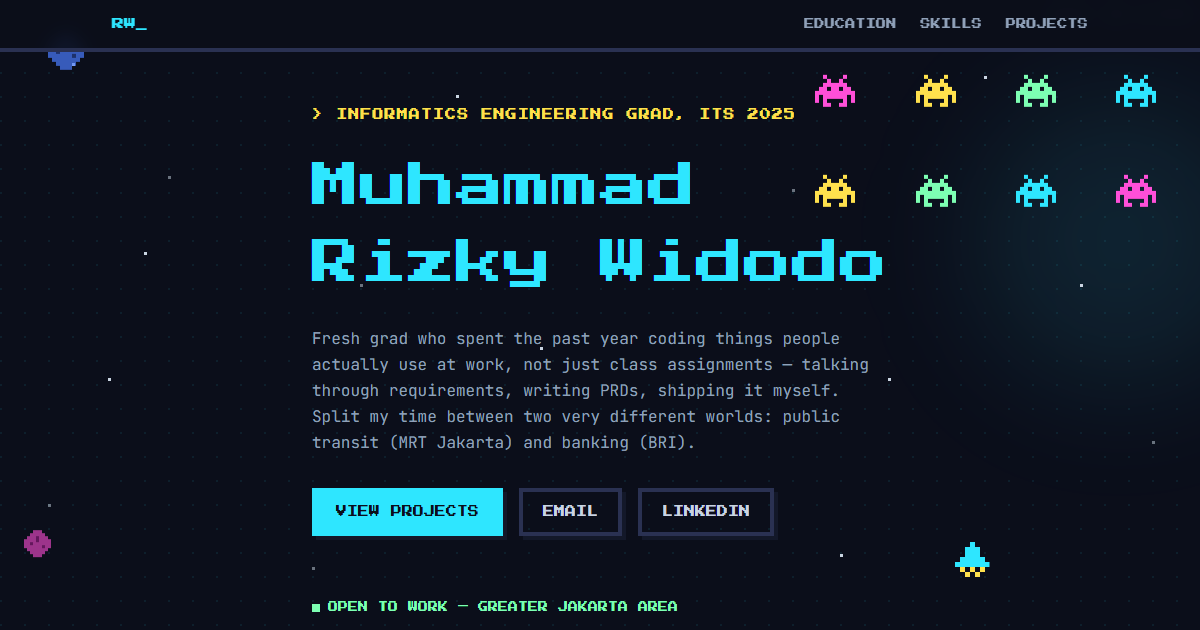
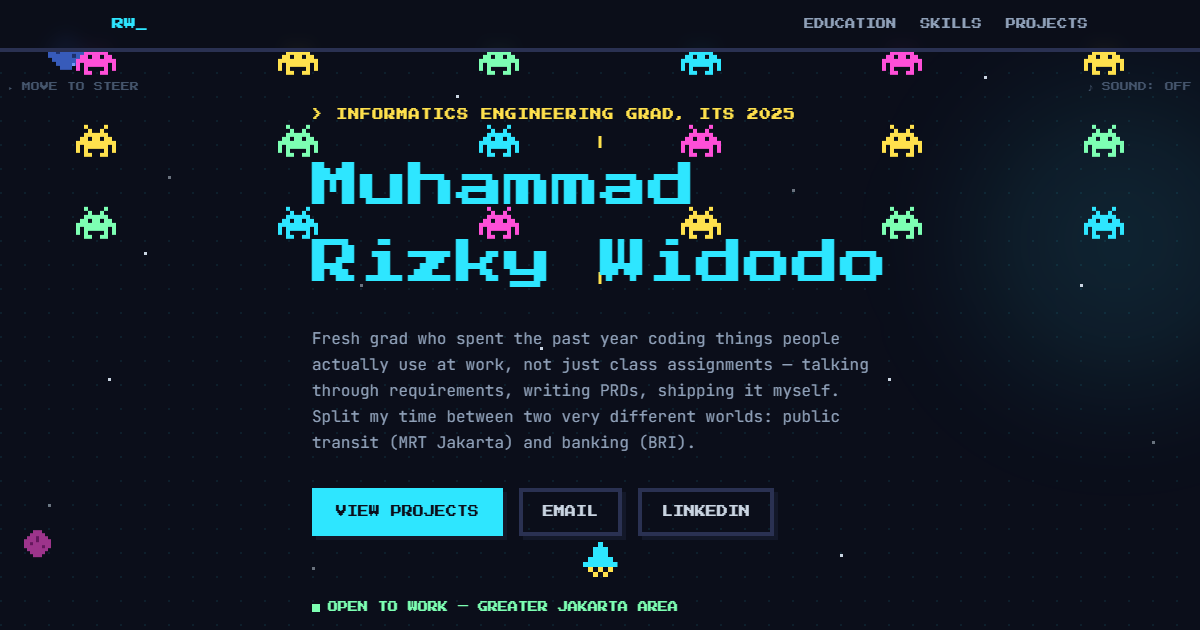
Full-screen invaders, auto-fire, pixel explosions, synthesized sound
Battlefield now spans the whole Hero instead of a 38% side column, the
ship auto-fires so pointer movement is steering-only, hit aliens burst
into fading particles instead of vanishing, and shots/explosions have
retro 8-bit sound (Web Audio oscillator + filtered noise, opt-in via a
mute toggle — nothing plays until the user turns it on).

Also fixes a hit-testing regression from going full-width: the Hero
text block needed an explicit z-10 to reliably paint above the
battlefield, since same-level (z-index:auto) stacking order wasn't
resolving the way DOM order alone would suggest.

diff --git a/src/components/SpaceInvaders.tsx b/src/components/SpaceInvaders.tsx
@@ -1,23 +1,27 @@
 import { useEffect, useRef, useState } from 'react'
 import PixelSprite from './PixelSprite'
 import { ALIEN_PATTERN, SHIP_COLORS, SHIP_PATTERN } from './pixelSprites'
+import { playExplosion, playShoot, unlockAudio } from '../lib/sound'
 
 type Alien = { id: string; x: number; y: number; color: string; alive: boolean }
 type Bullet = { id: string; x: number; y: number }
+type Explosion = { id: string; x: number; y: number; color: string }
 
 const ALIEN_COLORS = ['#ff4fd8', '#ffe14d', '#7dffb3', '#2ee6ff']
-const BULLET_SPEED = 2.2 // percent of battlefield height per frame
-const HIT_RADIUS = 7 // percent
+const BULLET_SPEED = 2.4 // percent of battlefield height per frame
+const HIT_RADIUS = 6 // percent
+const FIRE_INTERVAL_MS = 450
+const PARTICLE_ANGLES = [0, 60, 120, 180, 240, 300]
 
 function makeWave(): Alien[] {
   const aliens: Alien[] = []
   let id = 0
-  for (let row = 0; row < 2; row++) {
-    for (let col = 0; col < 4; col++) {
+  for (let row = 0; row < 3; row++) {
+    for (let col = 0; col < 6; col++) {
       aliens.push({
         id: `a${id++}`,
-        x: 20 + col * 22,
-        y: 15 + row * 16,
+        x: 8 + col * 16.8,
+        y: 10 + row * 13,
         color: ALIEN_COLORS[(row + col) % ALIEN_COLORS.length],
         alive: true,
       })
@@ -34,15 +38,22 @@ function SpaceInvaders() {
   const [shipX, setShipX] = useState(50)
   const [aliens, setAliens] = useState<Alien[]>(() => makeWave())
   const [bullets, setBullets] = useState<Bullet[]>([])
+  const [explosions, setExplosions] = useState<Explosion[]>([])
+  const [soundOn, setSoundOn] = useState(false)
 
   const aliensRef = useRef(aliens)
   const bulletsRef = useRef(bullets)
+  const shipXRef = useRef(shipX)
+  const soundOnRef = useRef(soundOn)
   useEffect(() => {
     aliensRef.current = aliens
   }, [aliens])
   useEffect(() => {
     bulletsRef.current = bullets
   }, [bullets])
+  useEffect(() => {
+    soundOnRef.current = soundOn
+  }, [soundOn])
 
   // Single rAF loop: moves bullets up and checks alien collisions each
   // frame. Reads current state via refs (not the closed-over `aliens`/
@@ -55,7 +66,7 @@ function SpaceInvaders() {
       const currentAliens = aliensRef.current
 
       if (currentBullets.length > 0) {
-        const hitIds = new Set<string>()
+        const hits: Alien[] = []
         const nextBullets: Bullet[] = []
 
         for (const bullet of currentBullets) {
@@ -65,24 +76,35 @@ function SpaceInvaders() {
           const hit = currentAliens.find(
             (a) =>
               a.alive &&
-              !hitIds.has(a.id) &&
+              !hits.includes(a) &&
               Math.abs(a.x - bullet.x) < HIT_RADIUS &&
               Math.abs(a.y - y) < HIT_RADIUS,
           )
           if (hit) {
-            hitIds.add(hit.id)
+            hits.push(hit)
             continue
           }
           nextBullets.push({ ...bullet, y })
         }
 
         setBullets(nextBullets)
-        if (hitIds.size > 0) {
+        if (hits.length > 0) {
+          const hitIds = new Set(hits.map((a) => a.id))
           setAliens(
             currentAliens.map((a) =>
               hitIds.has(a.id) ? { ...a, alive: false } : a,
             ),
           )
+          setExplosions((prev) => [
+            ...prev,
+            ...hits.map((a) => ({
+              id: `e${a.id}-${Date.now()}`,
+              x: a.x,
+              y: a.y,
+              color: a.color,
+            })),
+          ])
+          if (soundOnRef.current) playExplosion()
         }
       }
 
@@ -101,34 +123,48 @@ function SpaceInvaders() {
     }
   }, [aliens])
 
-  const shipXFromPointer = (clientX: number) => {
-    const rect = battlefieldRef.current?.getBoundingClientRect()
-    if (!rect) return shipX
-    return clamp(((clientX - rect.left) / rect.width) * 100, 5, 95)
-  }
+  // Auto-fire from the ship's current x, no click required.
+  useEffect(() => {
+    const interval = setInterval(() => {
+      setBullets((prev) => [
+        ...prev,
+        { id: `b${Date.now()}-${Math.random()}`, x: shipXRef.current, y: 84 },
+      ])
+      if (soundOnRef.current) playShoot()
+    }, FIRE_INTERVAL_MS)
+    return () => clearInterval(interval)
+  }, [])
 
   const handlePointerMove = (e: React.PointerEvent) => {
-    setShipX(shipXFromPointer(e.clientX))
+    const rect = battlefieldRef.current?.getBoundingClientRect()
+    if (!rect) return
+    const pct = clamp(((e.clientX - rect.left) / rect.width) * 100, 3, 97)
+    shipXRef.current = pct
+    setShipX(pct)
   }
 
-  const handlePointerDown = (e: React.PointerEvent) => {
-    const x = shipXFromPointer(e.clientX)
-    setShipX(x)
-    setBullets((prev) => [
-      ...prev,
-      { id: `b${Date.now()}-${Math.random()}`, x, y: 84 },
-    ])
+  const toggleSound = () => {
+    setSoundOn((prev) => {
+      if (!prev) unlockAudio()
+      return !prev
+    })
   }
 
   return (
     <div
       ref={battlefieldRef}
       onPointerMove={handlePointerMove}
-      onPointerDown={handlePointerDown}
-      className="pointer-events-auto absolute inset-y-0 right-0 w-[38%] touch-none select-none"
+      className="pointer-events-auto absolute inset-0 touch-none select-none"
     >
-      <p className="font-pixel absolute top-2 right-2 text-[9px] text-slate-600">
-        ▸ SHOOT THE ALIENS
+      <button
+        type="button"
+        onClick={toggleSound}
+        className="pointer-events-auto font-pixel absolute top-20 right-2 text-[9px] text-slate-600 transition-colors hover:text-cyan"
+      >
+        ♪ SOUND: {soundOn ? 'ON' : 'OFF'}
+      </button>
+      <p className="font-pixel absolute top-20 left-2 text-[9px] text-slate-600">
+        ▸ MOVE TO STEER
       </p>
 
       {aliens.map(
@@ -144,6 +180,37 @@ function SpaceInvaders() {
             />
           ),
       )}
+
+      {explosions.map((ex) => (
+        <div
+          key={ex.id}
+          className="absolute -translate-x-1/2 -translate-y-1/2"
+          style={{ left: `${ex.x}%`, top: `${ex.y}%` }}
+          onAnimationEnd={() =>
+            setExplosions((prev) => prev.filter((p) => p.id !== ex.id))
+          }
+        >
+          {PARTICLE_ANGLES.map((angle) => {
+            const rad = (angle * Math.PI) / 180
+            const dx = Math.cos(rad) * 18
+            const dy = Math.sin(rad) * 18
+            return (
+              <span
+                key={angle}
+                className="absolute h-1 w-1"
+                style={
+                  {
+                    background: ex.color,
+                    animation: 'pixel-explode 0.4s ease-out forwards',
+                    '--dx': `${dx}px`,
+                    '--dy': `${dy}px`,
+                  } as React.CSSProperties
+                }
+              />
+            )
+          })}
+        </div>
+      ))}
 
       {bullets.map((b) => (
         <div

diff --git a/src/lib/sound.ts b/src/lib/sound.ts
@@ -1,0 +1,52 @@
+let ctx: AudioContext | null = null
+
+function getContext() {
+  if (!ctx) ctx = new AudioContext()
+  if (ctx.state === 'suspended') ctx.resume()
+  return ctx
+}
+
+// Call once from a real user gesture (click) so the browser's autoplay
+// policy allows audio afterward — nothing plays until this has run.
+export function unlockAudio() {
+  getContext()
+}
+
+export function playShoot() {
+  const audio = getContext()
+  const osc = audio.createOscillator()
+  const gain = audio.createGain()
+  osc.type = 'square'
+  osc.frequency.setValueAtTime(880, audio.currentTime)
+  osc.frequency.exponentialRampToValueAtTime(220, audio.currentTime + 0.1)
+  gain.gain.setValueAtTime(0.06, audio.currentTime)
+  gain.gain.exponentialRampToValueAtTime(0.0001, audio.currentTime + 0.1)
+  osc.connect(gain).connect(audio.destination)
+  osc.start()
+  osc.stop(audio.currentTime + 0.1)
+}
+
+export function playExplosion() {
+  const audio = getContext()
+  const duration = 0.25
+  const bufferSize = Math.floor(audio.sampleRate * duration)
+  const buffer = audio.createBuffer(1, bufferSize, audio.sampleRate)
+  const data = buffer.getChannelData(0)
+  for (let i = 0; i < bufferSize; i++) {
+    data[i] = (Math.random() * 2 - 1) * (1 - i / bufferSize)
+  }
+
+  const noise = audio.createBufferSource()
+  noise.buffer = buffer
+
+  const filter = audio.createBiquadFilter()
+  filter.type = 'lowpass'
+  filter.frequency.setValueAtTime(1400, audio.currentTime)
+
+  const gain = audio.createGain()
+  gain.gain.setValueAtTime(0.18, audio.currentTime)
+  gain.gain.exponentialRampToValueAtTime(0.0001, audio.currentTime + duration)
+
+  noise.connect(filter).connect(gain).connect(audio.destination)
+  noise.start()
+}

diff --git a/src/components/Hero.tsx b/src/components/Hero.tsx
@@ -17,7 +17,7 @@ function Hero() {
     >
       <HeroBackground />
 
-      <div className="pointer-events-none mx-auto max-w-5xl">
+      <div className="pointer-events-none relative z-10 mx-auto max-w-5xl">
         <p className="font-pixel text-[11px] tracking-widest text-yellow">
           &gt; INFORMATICS ENGINEERING GRAD, ITS 2025
         </p>

diff --git a/src/index.css b/src/index.css
@@ -32,6 +32,17 @@
   }
 }
 
+@keyframes pixel-explode {
+  from {
+    transform: translate(0, 0) scale(1);
+    opacity: 1;
+  }
+  to {
+    transform: translate(var(--dx), var(--dy)) scale(0);
+    opacity: 0;
+  }
+}
+
 * {
   image-rendering: pixelated;
 }
